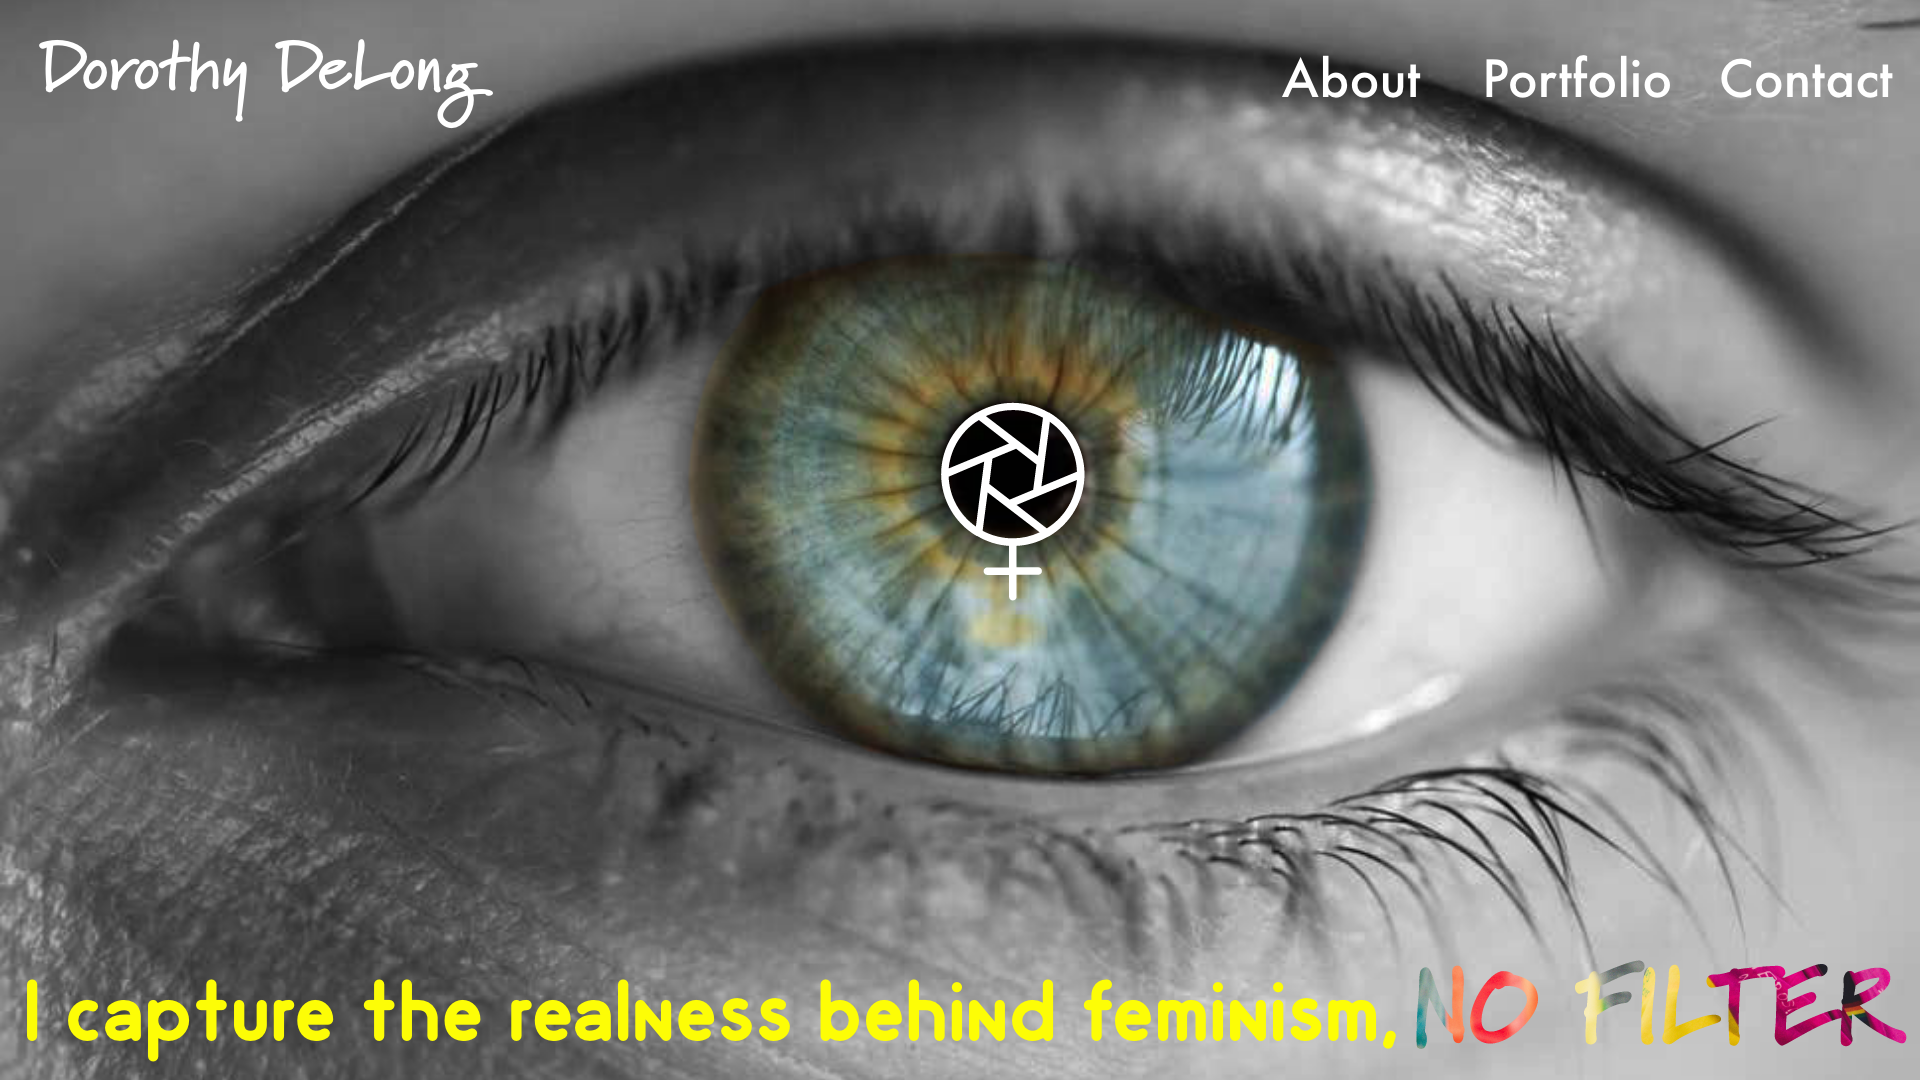
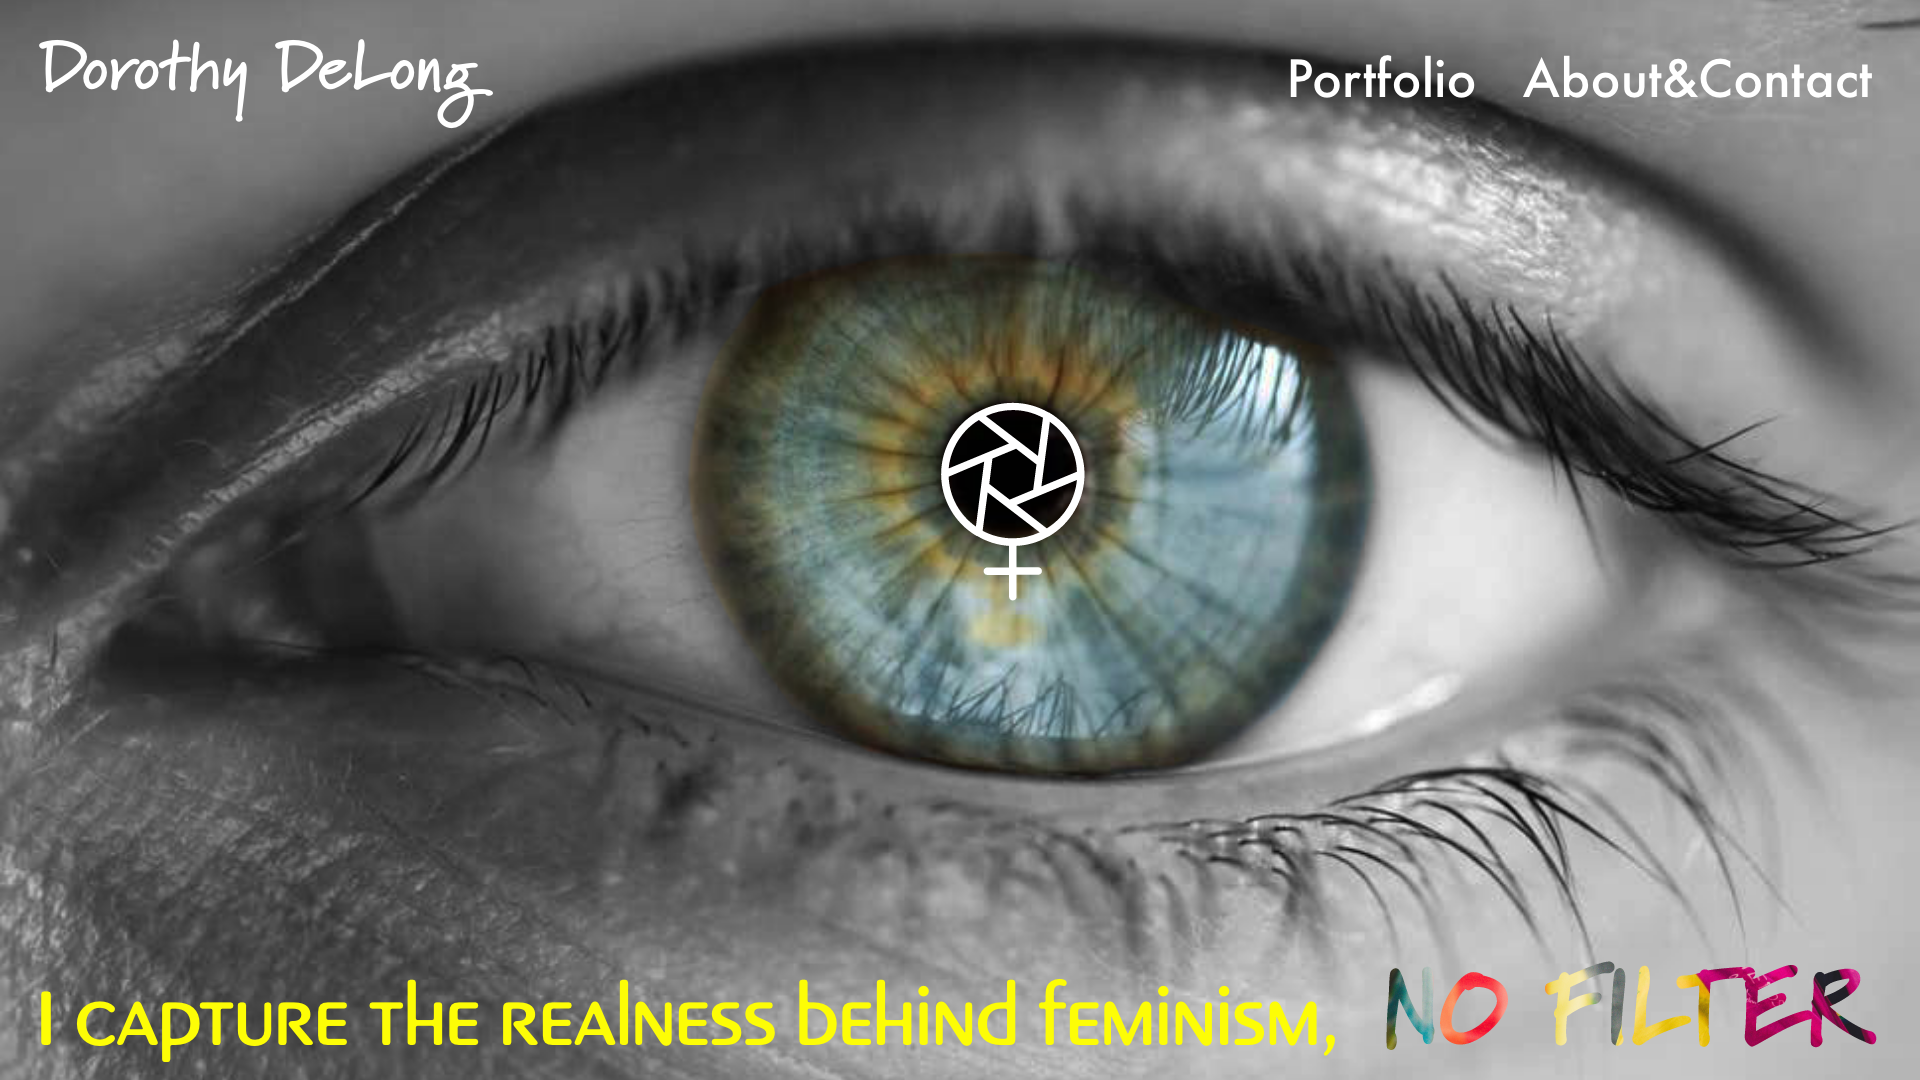
added footer to dorothy

Changed region(s): [[0.0, 0.8861, 1.0, 0.9778], [0.6562, 0.0306, 1.0, 0.0917]]

diff --git a/dorothy/index.html b/dorothy/index.html
@@ -15,7 +15,10 @@
   <link rel="stylesheet" href="../css/normalize.css">
   <link rel="stylesheet" href="../css/main.css">
     
-    <link rel="stylesheet" href="https://cdnjs.cloudflare.com/ajax/libs/font-awesome/4.7.0/css/font-awesome.min.css">
+    
+    <link rel="stylesheet" href="https://cdnjs.cloudflare.com/ajax/libs/font-awesome/5.10.2/css/all.min.css">
+    
+    <link href="https://fonts.googleapis.com/css?family=Nova+Mono|Open+Sans|Open+Sans+Condensed:300|Share+Tech+Mono&display=swap" rel="stylesheet">
    
 </head>
 
@@ -25,35 +28,112 @@
   <![endif]-->
 
   <!-- Add your site or application content here -->
-<section class="dorothy-design">
-        <div class="full-page-img">
-            <img src="../img/front-page-dorothy.png" alt="Dorothy design">
-            <a href="../index.html" class="home-button">&#8810; BACK TO HOMEPAGE</a>
-        </div>  
- </section>
+    
+<header></header>
+    
+<section id="home-page" class="dorothy">
+
+      
+        <img src="../img/front-page-dorothy.png" alt="Dorothy design home page">
+  
+        
+    <a href="../index.html" class="home-button">&#8810; BACK HOME</a>
+ 
+  <article>
+ <p>This design is for mobiles, tablets screens and desktops with landscape orientation. To see the prototype for mobile devices with portrait orientation please folow this link (under construction).</p>
+<p>The above home page takes full browser window. Other pages can be accessed via the menu on top right. The portfolio page can also be accessed by clicking on the aperture of a camera/female symbol in the middle of the eye pupil. The icon expands on hover to hint the user that it's clickable. Once clicked the icon is then replaced by an image of a camera aperture opening its lenses. The size of the image must be the same as the size of the icon. The above effect takes 1 second. The Portfolio page then fades in after another second.</p>
+   </article>
+</section>
+    
+    
+<section id="portfolio-page" class="dorothy">
+    
+<br>
+<br>
+    
+<h2>Portfolio Page</h2> 
+    <div align="center" id="first-border"></div>
+        <div id="second-border"></div>
+    <br>
+
+  
+    
+<img src="../img/dorothy-portfolio-page.png" alt="Dorothy design home page">
+
+
+    
+    <article>
+        <p>The Portfolio page is simple and easy the use. The header and top image together take the whole of browser window. More images are revealed on scroll. The images have their titles and descriptions in left or right bottom corner. They take full screen on click and can be closed using an x button on top right. Full screen mode also has a slider functionality where the user can use semi-transparent arows on the right and left to navigate to other images. Dorothy's contact details are found in the footer for easy access. The user can access other menu options from the menu on top right or go to the front page by clicking on Dorothy's name of logo. </p>
+    <br>
+    </article>
+</section>
+    
+    <section id="about-page" class="dorothy">
+    
+<br>
+<br>
+    
+<h2>About Page</h2> 
+    <div align="center" id="first-border"></div>
+        <div id="second-border"></div>
+    <br>
+
+  
+    
+<img src="../img/dorothy-about-page.png" alt="Dorothy design About page">
+
+
+    
+    <article>
+        <p>Again, the idea is that this page takes the whole screen. Dorothy is brief and so is her About page. Contact details are given in the footer. Portfolio page can be accessed via the main menu on top right and the home page is accessible via the logo or the artist's name in the header.</p>
+    <br>
+    </article>
+</section>
+    
+<footer>
+  
+        <section id="design-footer">
+           
+            <div id="design-contact">
+            <p>Contact:   svet.crow@gmail.com, +44(0)7704445536</p>
+            </div>
+            
+        <div id="design-social">
+            <ul class="social-links">
+            
+                <li><a href="https://www.facebook.com/lana.crow.779" target="_blank"><i class="fab fa-facebook-f"></i></a>
+                </li>
+                <li><a href="https://twitter.com/crowlana" target="_blank"><i class="fab fa-twitter"></i></a></li>
+                <li><a href="https://www.behance.net/SVETCROW9271?tracking_source=search-all%7Clana%20crow" target="_blank"><i class="fab fa-behance" ></i></a></li> 
+                <li><a href="https://www.linkedin.com/in/lana-crow/" target="_blank"><i class="fab fa-linkedin-in" ></i></a></li>    
+            </ul>
+        </div> 
+            
+            <div id="design-copyright">
+            
+                <p>Designed and developed by <br>Lana Crow &#9400; 2019</p>
+        
+            </div>
+       
+    </section>
+    
+</footer>
+
+
  
  <script src="js/vendor/modernizr-3.6.0.min.js"></script>
 
   <script>window.jQuery || document.write('<script src="../js/vendor/jquery-3.3.1.min.js"><\/script>')</script>
-  <script src="../js/plugins.js"></script>
-  <script src="../js/main.js"></script>
-    <script
+ <script
   src="https://code.jquery.com/jquery-3.4.1.min.js"
   crossorigin="anonymous"></script>
-     <script src="../js/jquery.waypoints.min.js"></script>
-   <script src="../js/waypoints.js"></script>
+<script src="../js/jquery.waypoints.min.js"></script>
+  <script src="../js/plugins.js"></script>
+  <script src="../js/main.js"></script>
+
     
-    <script src="https://cdnjs.cloudflare.com/ajax/libs/jquery-validate/1.19.1/jquery.validate.js"></script>
-   
-    
-  <!-- Google Analytics: change UA-XXXXX-Y to be your site's ID. -->
-  <script>
-    window.ga = function () { ga.q.push(arguments) }; ga.q = []; ga.l = +new Date;
-    ga('create', 'UA-XXXXX-Y', 'auto'); ga('send', 'pageview')
-  </script>
   <script src="https://www.google-analytics.com/analytics.js" async defer></script>
 <script src="https://cdnjs.cloudflare.com/ajax/libs/popper.js/1.14.7/umd/popper.min.js" integrity="sha384-UO2eT0CpHqdSJQ6hJty5KVphtPhzWj9WO1clHTMGa3JDZwrnQq4sF86dIHNDz0W1" crossorigin="anonymous"></script>
-<script src="https://stackpath.bootstrapcdn.com/bootstrap/4.3.1/js/bootstrap.min.js" integrity="sha384-JjSmVgyd0p3pXB1rRibZUAYoIIy6OrQ6VrjIEaFf/nJGzIxFDsf4x0xIM+B07jRM" crossorigin="anonymous"></script>
 
 </body>
 

diff --git a/css/main.css b/css/main.css
@@ -913,7 +913,7 @@ li a:hover {
 /*---------------------diagrams------------------------*/
 
 #diagrams {
-    background-color: #f2f4f4;
+    background-color: #f5f5f5;
     padding: 3%;
     
 }
@@ -1019,7 +1019,7 @@ li a:hover {
 
 
 #contact {
-    background-color: #f2f4f4;
+    background-color: #f5f5f5;
     padding: 20px 0;
 
 }
@@ -1184,16 +1184,101 @@ label {
 
 /*------------------Dorothy page--------------------*/
 
-.full-page-img {
-    width: 100%;
-    margin: 0;
-    height: auto;
+.dorothy {
+    background-color: #f5f5f5;
 }
 
-.full-page-img img {
-    width: 100%;
+.dorothy article {
+    margin: 5% 5% 0 5%;
+    text-align: justify;
+    
 }
 
+.dorothy h2 {
+    padding-bottom: 2%;
+}
+
+/*------------------dorothy footer-------------------*/
+
+
+#design-footer {
+
+    width: 100%;
+    background-color: black;
+    color: #73CEC0;
+    display: grid;
+    grid-template-columns: 10px 1fr 1fr 30px;
+    grid-auto-rows: 4rem;
+
+
+}
+
+#design-contact > p {
+    color: white;
+}
+
+
+#design-contact {
+    grid-column: 2/4;
+    grid-row: 1/2;
+    display: flex;
+    flex-flow: row wrap;
+    justify-content: center;
+    align-items: center;
+    margin-top: 2%;
+
+}
+
+#design-copyright {
+    grid-column: 3/4;
+    grid-row: 2/3;
+    display: flex;
+    margin-left: auto;
+    
+    
+}
+
+#design-copyright>p {
+  color: #73cec0;
+}
+
+#design-social {
+
+    grid-column: 2/3;
+    grid-row: 2/3;
+    text-align: start;
+
+}
+
+
+
+/*#social {
+    width: 40%;
+    text-align: right;
+}
+
+
+.social-links li {
+    display: inline-block;
+    padding: 0 5%;
+}
+
+
+#copyright {
+    width: 60%;
+}
+
+#copyright p {
+    color: white;
+    font-size: 0.8rem;
+    text-align: left;
+}*/
+
+#design-social i {
+    color: #73CEC0;
+    font-size: 1rem;
+    font-weight: bold;
+}
 
 
 /*------home button on dorothy and cv pages---*/

diff --git a/index.html b/index.html
@@ -24,7 +24,7 @@
     
 <link href="https://fonts.googleapis.com/css?family=Nova+Mono|Open+Sans|Open+Sans+Condensed:300|Share+Tech+Mono&display=swap" rel="stylesheet">
     
-<link rel="stylesheet" href="https://use.typekit.net/izn1rlw.css">
+
 
     
     
@@ -384,11 +384,7 @@
        <script src="js/jquery.waypoints.min.js"></script>
   <script src="js/plugins.js"></script>
   <script src="js/main.js"></script>
-    <!-- <script
-  src="https://code.jquery.com/jquery-3.4.1.min.js"
-  crossorigin="anonymous"></script>
-   
-  <script src="js/waypoints.js"></script>-->
+
     
     <script src="https://cdnjs.cloudflare.com/ajax/libs/jquery-validate/1.19.1/jquery.validate.js"></script>
    
